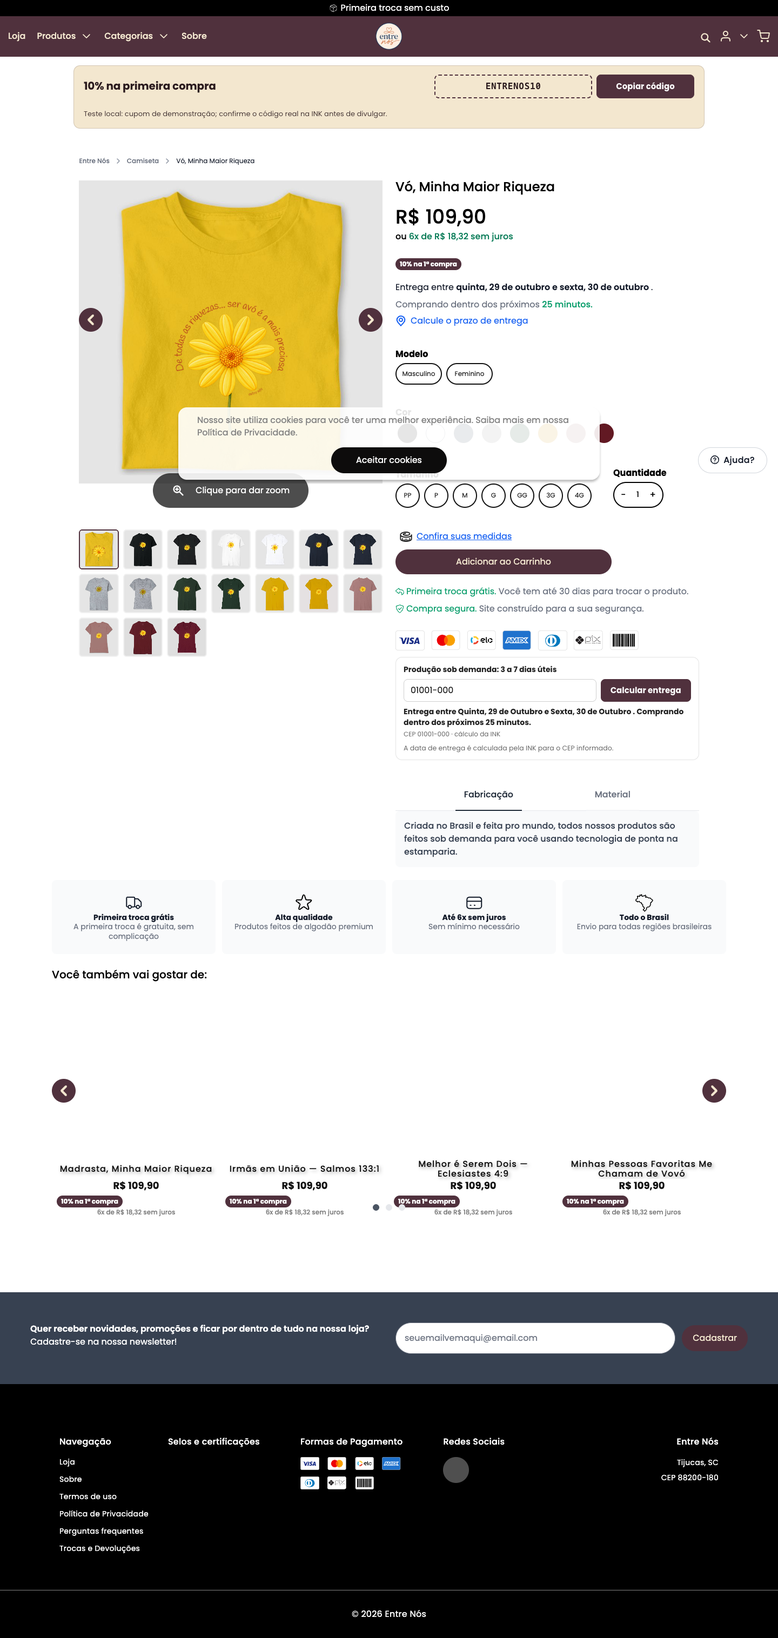
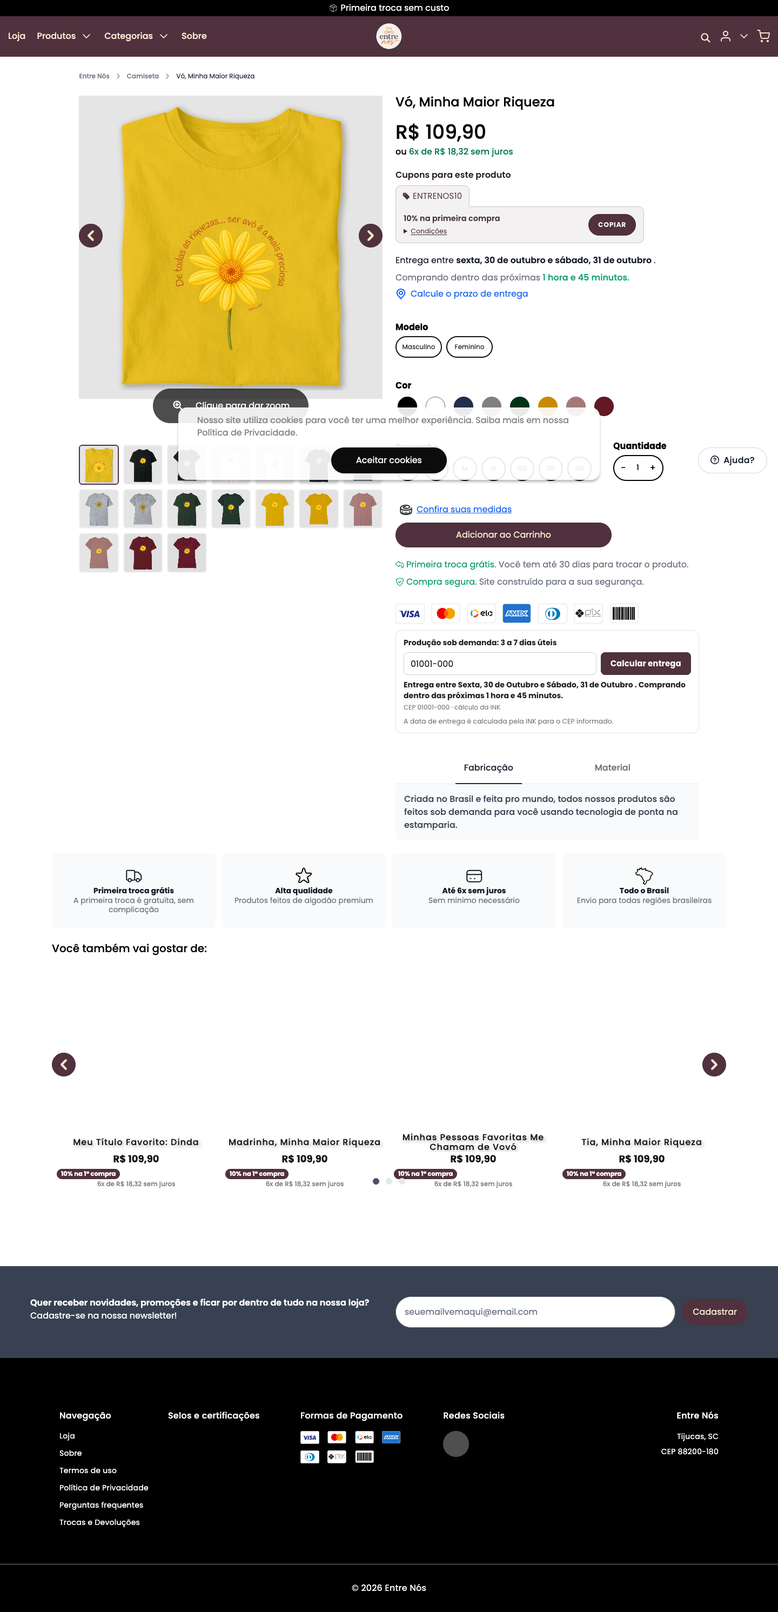
M05: cupons em abas junto ao preço na página do produto
- No produto, quadro compacto logo abaixo do preço com uma aba por
  código (todas as campanhas vigentes), texto da campanha, condições
  recolhidas e "Copiar" → "Copiado"; teclado nas abas; um cupom só vira
  um rótulo com o código. Título configurável. Opção de manter o bloco.
- Cupons da INK entram nas mesmas abas e o quadro nativo sai.
- Selo nos cards quebra a linha em card estreito em vez de cortar.
- Tira docs/.DS_Store do repositório.

diff --git a/src/client/modules/coupons.ts b/src/client/modules/coupons.ts
@@ -84,6 +84,8 @@ const couponsModule: ClientModule = {
       accent: { bg: string; fg: string };
       campaigns: Campaign[];
       inkCoupons?: boolean;
+      productStyle?: string;
+      productTitle?: string;
     };
     const { signal } = ctx;
     const now = Date.now();
@@ -94,8 +96,22 @@ const couponsModule: ClientModule = {
     const render = (live: Campaign[]): (() => void) => {
       const undo = new Undo();
 
+      // Produto: abas compactas junto ao preço (uma por código), no lugar do bloco.
+      let compact = false;
+      if (ctx.page === 'product' && s.productStyle !== 'bloco' && (s.blockPages.includes('product') || s.inkCoupons)) {
+        const spot = belowPrice();
+        if (spot) {
+          const host = productTabs(live, s.productTitle ?? '', ctx, s.accent, timers);
+          undo.insert(host, spot.parent, spot.before);
+          compact = true;
+          // Os cupons da INK já estão nas abas: o quadro nativo sairia repetido.
+          const native = document.querySelector<HTMLElement>('#product_promotions_frame');
+          if (native && live.some((c) => c.fromInk)) undo.hide(native);
+        }
+      }
+
       // Bloco principal
-      if (s.blockPages.includes(ctx.page)) {
+      if (s.blockPages.includes(ctx.page) && !compact) {
         const spot = s.position === 'antes-rodape' ? beforeFooter() : afterHeader();
         if (spot) {
           const { host, root } = shadowHost('coupons', ctx.theme, CSS);
@@ -169,9 +185,16 @@ const couponsModule: ClientModule = {
         };
         if (badge) document.querySelectorAll('.card-thumb .card-thumb__prices-v2').forEach((price) => {
           const b = mk(badge);
+          // Cards estreitos (vitrines no celular): quebra a linha em vez de cortar o texto.
+          b.style.whiteSpace = 'normal';
+          b.style.width = 'auto';
+          b.style.fontSize = '11.5px';
+          b.style.lineHeight = '1.3';
+          b.style.textAlign = 'center';
+          b.style.overflowWrap = 'anywhere';
           undo.insert(b, price.parentNode!, price.nextSibling);
         });
-        if (ctx.page === 'product' && productBadge) {
+        if (ctx.page === 'product' && productBadge && !compact) {
           const spot = belowPrice();
           if (spot) {
             const b = mk(productBadge);
@@ -210,6 +233,147 @@ const couponsModule: ClientModule = {
     };
   },
 };
+
+const TABS_CSS = `
+:host{display:block;margin:14px 0 4px;max-width:460px;container-type:inline-size}
+.ttl{margin:0 0 8px;font-size:16px;font-weight:600;line-height:1.4}
+.tabs{display:flex;gap:6px;margin-bottom:-1px;overflow-x:auto;scrollbar-width:none;position:relative;z-index:1}
+.tabs::-webkit-scrollbar{display:none}
+.tabs[data-more]{-webkit-mask-image:linear-gradient(90deg,#000 calc(100% - 28px),transparent);mask-image:linear-gradient(90deg,#000 calc(100% - 28px),transparent)}
+.tab{flex:1 0 auto;min-width:0;min-height:40px;display:inline-flex;align-items:center;justify-content:center;gap:5px;padding:0 12px;border:1px solid var(--line);border-radius:10px 10px 0 0;background:#fff;color:color-mix(in srgb,var(--ac) 72%,#fff);font:600 13.5px/1 inherit;letter-spacing:.02em;white-space:nowrap;cursor:pointer}
+.tab[aria-selected="true"]{background:var(--tint);border-bottom-color:var(--tint);color:var(--ac);cursor:default}
+.tab:focus-visible{outline:2px solid var(--ac);outline-offset:-3px}
+.tab svg{flex:none;width:14px;height:14px;fill:currentColor}
+span.tab{cursor:default;flex:0 0 auto}
+.panel{display:flex;align-items:center;justify-content:space-between;gap:16px;padding:12px 14px;border:1px solid var(--line);border-radius:0 10px 10px 10px;background:var(--tint)}
+.panel[hidden]{display:none}
+.txt{min-width:0;color:var(--ink)}
+.main{margin:0;font-weight:600;font-size:14.5px;line-height:1.35}
+.sub{margin:2px 0 0;font-size:13.5px;line-height:1.35}
+.meta{margin:4px 0 0;font-size:12.5px;opacity:.8}
+details{margin-top:4px;font-size:12.5px}
+summary{cursor:pointer;text-decoration:underline;text-underline-offset:2px;width:max-content}
+details p{margin:4px 0 0;white-space:pre-line}
+.acts{flex:none;display:flex;flex-direction:column;align-items:stretch;gap:6px}
+.copy{min-height:40px;padding:8px 18px;border:0;border-radius:999px;background:var(--ac);color:var(--on-ac);font-weight:700;font-size:12.5px;letter-spacing:.05em;text-transform:uppercase;cursor:pointer}
+.copy[data-done]{background:color-mix(in srgb,var(--ac) 80%,#000)}
+.use{min-height:32px;padding:4px 8px;border:0;background:transparent;color:var(--ac);font-weight:600;font-size:12.5px;text-decoration:underline;cursor:pointer}
+.status{margin:6px 2px 0;font-size:13px;color:var(--ink)}
+.status:empty{display:none}
+@container (max-width:420px){.tabs{gap:4px}.tab{padding:0 8px;font-size:12.5px;gap:4px}.tab svg{width:12px;height:12px}}
+@container (max-width:380px){.panel{flex-direction:column;align-items:stretch}.acts{flex-direction:row}.copy{flex:1}}
+`;
+const TAG_ICON = '<svg viewBox="0 0 16 16" aria-hidden="true"><path d="M1 2.5A1.5 1.5 0 0 1 2.5 1h4.09a1.5 1.5 0 0 1 1.06.44l7 7a1.5 1.5 0 0 1 0 2.12l-4.09 4.09a1.5 1.5 0 0 1-2.12 0l-7-7A1.5 1.5 0 0 1 1 6.59V2.5Zm3.5 3a1 1 0 1 0 0-2 1 1 0 0 0 0 2Z"/></svg>';
+
+/** Quadro compacto do produto: uma aba por código, texto curto e "Copiar". */
+function productTabs(live: Campaign[], title: string, ctx: ModuleContext, accent: { bg: string; fg: string }, timers: Set<ReturnType<typeof setTimeout>>): HTMLElement {
+  const { signal } = ctx;
+  const { host, root } = shadowHost('coupons', ctx.theme, TABS_CSS, { 'data-pink-coupon-tabs': '' });
+  root.append(h('style', {}, `:host{--ac:${accent.bg};--on-ac:${accent.fg};--tint:color-mix(in srgb,${accent.bg} 7%,#fff);--line:color-mix(in srgb,${accent.bg} 28%,#fff);--ink:color-mix(in srgb,${accent.bg} 70%,#111)}`));
+  const status = h('p', { class: 'status', role: 'status', 'aria-live': 'polite' });
+  const multi = live.length > 1;
+  const icon = () => {
+    const t = document.createElement('template');
+    t.innerHTML = TAG_ICON;
+    return t.content.firstChild!;
+  };
+  const tabs = live.map((c, i) => {
+    const attrs = multi
+      ? { class: 'tab', type: 'button', role: 'tab', id: `pk-ct-${i}`, 'aria-controls': `pk-cp-${i}`, 'aria-selected': i === 0 ? 'true' : 'false', tabindex: i === 0 ? '0' : '-1' }
+      : { class: 'tab', 'aria-selected': 'true' };
+    const el = h(multi ? 'button' : 'span', attrs, icon(), h('span', {}, c.code));
+    return el;
+  });
+  const panels = live.map((c, i) => {
+    const copy = h('button', { class: 'copy', type: 'button', 'aria-label': `Copiar o código ${c.code}` }, 'Copiar');
+    const use = h('button', { class: 'use', type: 'button' }, 'Usar no carrinho');
+    use.hidden = !cartCouponInput();
+    let reset: ReturnType<typeof setTimeout> | undefined;
+    copy.addEventListener('click', async () => {
+      const ok = await copyText(c.code, root);
+      if (signal.aborted) return;
+      clearTimeout(reset);
+      if (ok) {
+        status.textContent = MESSAGES.copied;
+        copy.textContent = 'Copiado';
+        copy.setAttribute('data-done', '');
+        reset = setTimeout(() => {
+          copy.textContent = 'Copiar';
+          copy.removeAttribute('data-done');
+        }, 2500);
+        timers.add(reset);
+      } else {
+        status.textContent = `${MESSAGES.copyFailed} Código: ${c.code}`;
+      }
+    }, { signal });
+    use.addEventListener('click', () => {
+      // Só preenche o campo da INK; quem valida e aplica é a loja.
+      const input = cartCouponInput();
+      if (!input) {
+        status.textContent = MESSAGES.noCartField;
+        return;
+      }
+      [...document.querySelectorAll<HTMLElement>('[id^="shopping-cart-menu"]')].find((b) => b.getClientRects().length)?.click();
+      input.value = c.code;
+      input.dispatchEvent(new Event('input', { bubbles: true }));
+      setTimeout(() => input.focus(), 250);
+      status.textContent = MESSAGES.filled;
+    }, { signal });
+    const meta = [c.firstPurchase ? 'Só na primeira compra' : '', c.endsAt ? `Válido até ${formatWhen(c.endsAt)}` : ''].filter(Boolean).join(' · ');
+    return h(
+      'div',
+      { class: 'panel', ...(multi ? { role: 'tabpanel', id: `pk-cp-${i}`, 'aria-labelledby': `pk-ct-${i}` } : {}), hidden: i === 0 ? undefined : '' },
+      h('div', { class: 'txt' },
+        h('p', { class: 'main' }, c.title),
+        c.description ? h('p', { class: 'sub' }, c.description) : null,
+        meta ? h('p', { class: 'meta' }, meta) : null,
+        c.conditions ? h('details', {}, h('summary', {}, 'Condições'), h('p', {}, c.conditions)) : null,
+      ),
+      h('div', { class: 'acts' }, copy, use),
+    );
+  });
+  if (multi) {
+    const select = (i: number, focus = false) => {
+      tabs.forEach((t, j) => {
+        t.setAttribute('aria-selected', String(i === j));
+        (t as HTMLElement).tabIndex = i === j ? 0 : -1;
+        panels[j]!.hidden = i !== j;
+      });
+      status.textContent = '';
+      if (focus) (tabs[i] as HTMLElement).focus();
+      (tabs[i] as HTMLElement).scrollIntoView?.({ block: 'nearest', inline: 'nearest' });
+    };
+    tabs.forEach((t, i) => {
+      t.addEventListener('click', () => select(i), { signal });
+      t.addEventListener('keydown', (e) => {
+        const k = (e as KeyboardEvent).key;
+        if (k === 'ArrowRight' || k === 'ArrowLeft') {
+          e.preventDefault();
+          select((i + (k === 'ArrowRight' ? 1 : -1) + tabs.length) % tabs.length, true);
+        }
+      }, { signal });
+    });
+  }
+  ctx.cart.onChange(() => {
+    const has = !!cartCouponInput();
+    root.querySelectorAll<HTMLButtonElement>('.use').forEach((b) => (b.hidden = !has));
+  }, signal);
+  // Abas que não cabem: rolagem lateral com esmaecido na borda enquanto houver mais à direita.
+  const strip = h('div', { class: 'tabs', ...(multi ? { role: 'tablist', 'aria-label': 'Cupons' } : {}) }, ...tabs);
+  const more = () => strip.toggleAttribute('data-more', strip.scrollLeft + strip.clientWidth < strip.scrollWidth - 2);
+  strip.addEventListener('scroll', more, { signal, passive: true });
+  window.addEventListener('resize', more, { signal, passive: true });
+  requestAnimationFrame(more);
+  root.append(
+    h('section', { 'aria-label': title || 'Cupons' },
+      title ? h('p', { class: 'ttl' }, title) : null,
+      strip,
+      ...panels,
+      status,
+    ),
+  );
+  return host;
+}
 
 /** Cupons do frame nativo product_promotions. O frame é "lazy" (só carrega ao rolar): lê o endereço dele direto. */
 async function loadInkCoupons(signal: AbortSignal): Promise<Campaign[]> {

diff --git a/test/modules.dom.test.ts b/test/modules.dom.test.ts
@@ -131,10 +131,11 @@ test('M04: WhatsApp com mensagem e link limpo; copiar link', async () => {
 
 // ---------------------------------------------------------------- M05
 
-test('M05: abas de campanhas, selo de 1ª compra perto do preço, copiar ≠ aplicar', async () => {
+test('M05 (produto em "bloco"): abas de campanhas, selo de 1ª compra perto do preço, copiar ≠ aplicar', async () => {
   const cfg = configWith({
     coupons: {
       mode: 'abas',
+      productStyle: 'bloco',
       pages: ['product'],
       campaigns: [coupon({ code: 'PRIMEIRA10', nearPrice: true, badge: '10% na 1ª compra' }), coupon({ title: 'Frete', code: 'FRETE', firstPurchase: false }), coupon({ title: 'Vencido', code: 'VELHO', endsAt: '2099-01-01T00:00:00-03:00', startsAt: '2098-01-01T00:00:00-03:00' })],
     },
@@ -154,6 +155,58 @@ test('M05: abas de campanhas, selo de 1ª compra perto do preço, copiar ≠ apl
   assert.deepEqual(writes, ['PRIMEIRA10']);
   assert.match(root.textContent ?? '', /Código copiado/);
   assert.doesNotMatch(root.textContent ?? '', /aplicad/i);
+});
+
+test('M05: no produto, abas compactas logo abaixo do preço — uma por código, teclado, copiar', async () => {
+  const cfg = configWith({
+    coupons: {
+      mode: 'unico',
+      pages: ['home', 'product'],
+      productTitle: 'Quer cupom? Toma!',
+      campaigns: [
+        coupon({ title: 'Leve 2, ganhe 10%', description: 'Na compra de duas peças', code: 'DOSE10' }),
+        coupon({ title: '10% na primeira compra', code: 'PRIMEIRA10', firstPurchase: true, nearPrice: true, badge: '10% na 1ª compra' }),
+        coupon({ title: 'Futuro', code: 'FUTURO', startsAt: '2098-01-01T00:00:00-03:00', endsAt: '2099-01-01T00:00:00-03:00' }),
+      ],
+    },
+  });
+  const env = setup(PDP, PDP_PATH, cfg);
+  const writes: string[] = [];
+  Object.defineProperty(env.window.navigator, 'clipboard', { configurable: true, value: { writeText: async (t: string) => void writes.push(t) } });
+  env.run();
+  await env.mountedAfter();
+  const host = env.document.querySelector('[data-pink-coupon-tabs]')!;
+  assert.ok(host, 'abas no produto');
+  assert.equal(env.document.querySelectorAll('[data-pink-module="coupons"]:not([data-pink-badge])').length, 1, 'sem o bloco grande no produto');
+  assert.ok(host.closest('form[id^="form-product-"]'), 'dentro da área de compra');
+  assert.ok(host.previousElementSibling?.querySelector('p.text-4xl') || host.previousElementSibling?.matches('p.text-4xl'), 'logo abaixo do preço');
+  assert.equal(env.document.querySelector('form[id^="form-product-"] [data-pink-badge]'), null, 'sem selo repetido no produto: as abas já estão junto ao preço');
+  const root = host.shadowRoot!;
+  assert.match(root.textContent ?? '', /Quer cupom\? Toma!/);
+  const tabs = [...root.querySelectorAll<HTMLElement>('[role="tab"]')];
+  assert.deepEqual(tabs.map((t) => t.textContent), ['DOSE10', 'PRIMEIRA10'], 'uma aba por código vigente, mesmo no modo "único"');
+  const panels = [...root.querySelectorAll<HTMLElement>('[role="tabpanel"]')];
+  assert.deepEqual(panels.map((p) => p.hidden), [false, true]);
+  tabs[0]!.dispatchEvent(new env.window.KeyboardEvent('keydown', { key: 'ArrowRight' }));
+  assert.deepEqual(panels.map((p) => p.hidden), [true, false]);
+  assert.equal(tabs[1]!.getAttribute('aria-selected'), 'true');
+  assert.match(panels[1]!.textContent ?? '', /10% na primeira compra.*Só na primeira compra/);
+  panels[1]!.querySelector<HTMLElement>('.copy')!.click();
+  await env.tick(10);
+  assert.deepEqual(writes, ['PRIMEIRA10']);
+  assert.equal(panels[1]!.querySelector('.copy')!.textContent, 'Copiado');
+  assert.match(root.textContent ?? '', /Código copiado/);
+  assert.doesNotMatch(root.textContent ?? '', /aplicad/i);
+});
+
+test('M05: no produto, um cupom só vira um rótulo com o código (sem abas)', async () => {
+  const env = setup(PDP, PDP_PATH, configWith({ coupons: { pages: ['product'], campaigns: [coupon({ code: 'UNICO10' })] } }));
+  env.run();
+  await env.mountedAfter();
+  const root = env.document.querySelector('[data-pink-coupon-tabs]')!.shadowRoot!;
+  assert.equal(root.querySelectorAll('[role="tab"]').length, 0);
+  assert.equal(root.querySelector('span.tab')!.textContent, 'UNICO10');
+  assert.equal(root.querySelectorAll('.panel').length, 1);
 });
 
 test('M05: "Usar no carrinho" só preenche o campo de cupom da INK, sem enviar', async () => {
@@ -264,7 +317,7 @@ test('M01: sugestões na busca nativa — peças da busca da loja, vazio e erro,
 
 // ---------------------------------------------------------------- M07
 
-test('M05: cupons da INK (frame lazy, ainda não carregado): painel aparece na hora, os da INK chegam depois, sem repetir código; selo da INK só no produto principal', async () => {
+test('M05: cupons da INK (frame lazy, ainda não carregado): painel aparece na hora, os da INK chegam depois nas abas, sem repetir código; quadro nativo some', async () => {
   const cfg = configWith({ coupons: { mode: 'lista', inkCoupons: true, pages: ['product'], campaigns: [coupon({ code: 'LEVEMAISEXEMPLO', title: 'Do painel' })] } });
   const env = setup(PDP, PDP_PATH, cfg);
   // Um card de outro produto na página (vitrine de recomendações).
@@ -284,16 +337,17 @@ test('M05: cupons da INK (frame lazy, ainda não carregado): painel aparece na h
   assert.doesNotMatch(env.shadow('coupons')!.textContent ?? '', /PRIMEIRAEXEMPLO/);
   release();
   await env.tick(150);
-  const text = env.shadow('coupons')!.textContent ?? '';
+  const root = env.shadow('coupons')!;
+  const text = root.textContent ?? '';
   assert.match(text, /Do painel/);
-  assert.equal(text.match(/LEVEMAISEXEMPLO/g)?.length, 1, 'código do painel não se repete');
+  assert.deepEqual([...root.querySelectorAll('[role="tab"]')].map((t) => t.textContent), ['LEVEMAISEXEMPLO', 'PRIMEIRAEXEMPLO'], 'código do painel não se repete');
   assert.match(text, /Primeira compra: R\$10,00 OFF/);
   assert.match(text, /Regras da loja: R\$10,00 OFF; Somente primeira compra\./);
-  const badges = [...env.document.querySelectorAll('[data-pink-badge]')];
-  assert.equal(badges.length, 1, 'selo só no preço do produto principal, não no card de outro produto');
-  assert.equal(badges[0]!.textContent, 'R$10,00 OFF na 1ª compra');
-  assert.equal(badges[0]!.closest('.card-thumb'), null);
-  assert.equal(env.document.querySelectorAll('[data-pink-module="coupons"]:not([data-pink-badge])').length, 1, 'um bloco só');
+  assert.equal(env.document.querySelectorAll('[data-pink-badge]').length, 0, 'nenhum selo: nem no card de outro produto, nem repetido junto às abas');
+  assert.equal(frame.getAttribute('style')?.includes('display: none') || (frame as HTMLElement).style.display === 'none', true, 'quadro nativo da INK escondido (já está nas abas)');
+  assert.equal(env.document.querySelectorAll('[data-pink-module="coupons"]:not([data-pink-badge])').length, 1, 'um quadro só');
+  env.window.PersonalizacoesInk.destroy();
+  assert.notEqual((frame as HTMLElement).style.display, 'none', 'desligar devolve o quadro nativo');
 });
 
 test('M05: só cupons da INK, mas a loja não tem nenhum: nada aparece', async () => {

diff --git a/src/shared/modules/m05-coupons.ts b/src/shared/modules/m05-coupons.ts
@@ -37,10 +37,21 @@ export const coupons: ModuleDef = {
         { key: 'startsAt', type: 'datetime', label: 'Início (opcional)' },
         { key: 'endsAt', type: 'datetime', label: 'Fim (opcional)' },
         { key: 'firstPurchase', type: 'toggle', label: 'Só para a primeira compra' },
-        { key: 'nearPrice', type: 'toggle', label: 'Mostrar selo perto do preço (cards e página do produto)' },
+        { key: 'nearPrice', type: 'toggle', label: 'Mostrar selo perto do preço nos cards de produto' },
         { key: 'badge', type: 'text', label: 'Texto do selo', max: 40, showWhen: { key: 'nearPrice', in: [true] }, required: true },
       ],
     },
+    {
+      key: 'productStyle',
+      type: 'select',
+      label: 'Na página do produto',
+      help: 'Abas: um quadro compacto logo abaixo do preço, uma aba por código, com todas as campanhas vigentes (o selo de 1ª compra já aparece nelas). Bloco: o mesmo das outras páginas, com o selo junto ao preço.',
+      options: [
+        { value: 'junto-preco', label: 'Abas junto ao preço (uma por código)' },
+        { value: 'bloco', label: 'Mesmo bloco das outras páginas' },
+      ],
+    },
+    { key: 'productTitle', type: 'text', label: 'Título das abas no produto', max: 40, showWhen: { key: 'productStyle', in: ['junto-preco'] } },
     {
       key: 'inkCoupons',
       type: 'toggle',
@@ -63,6 +74,8 @@ export const coupons: ModuleDef = {
   defaults: {
     mode: 'unico',
     campaigns: [],
+    productStyle: 'junto-preco',
+    productTitle: 'Cupons para este produto',
     inkCoupons: false,
     position: 'abaixo-cabecalho',
     pages: ['home', 'listing', 'product'],
@@ -104,6 +117,8 @@ export const coupons: ModuleDef = {
       position: s.position,
       blockPages: s.pages,
       inkCoupons: s.inkCoupons === true,
+      productStyle: s.productStyle,
+      productTitle: s.productTitle,
       colors: color(ctx, s.background),
       accent: color(ctx, s.accent),
       campaigns: list(s.campaigns)

diff --git a/README.md b/README.md
@@ -92,7 +92,7 @@ Legenda:
 | M02 Categorias em abas | **A** | Vista: monta na home com 8 produtos reais da coleção, sem erros e sem rolagem lateral. jsdom: troca de aba muda os produtos e o "Ver todos"; atalhos repetidos só somem depois que as abas carregam | Páginas de coleção/listagem da própria loja (cache de 5 min na sessão) |
 | M03 Galeria com miniaturas | **A** | Vista: monta com as miniaturas das fotos reais, sem rolagem lateral no celular. jsdom: uma miniatura por foto navegável, clique aciona só o ponto nativo, variante intacta, acompanha a foto ativa | Carrossel nativo da INK |
 | M04 Compartilhamento | **A** | Vista: monta no produto. jsdom: WhatsApp com mensagem e link canônico limpo, copiar link | Canônico da página |
-| M05 Cupons (único, abas, lista) + selo de 1ª compra | **A** | Vista: bloco na home e selo "10% na 1ª compra" junto ao preço do produto (e2e). "Usar no carrinho" verificado no carrinho real da Vista: preenche o campo de cupom da INK e não envia (a pessoa confirma lá). jsdom: abas, vigência, copiar sem prometer desconto | Campanhas cadastradas no painel (as mesmas da INK). Opcional: **cupons cadastrados na INK** lidos do frame nativo `product_promotions` do produto (código, regras, faixas progressivas; "Somente primeira compra" vira selo "R$10,00 OFF na 1ª compra"), sem repetir códigos do painel. O frame é `lazy` na INK: o módulo lê o endereço dele direto, sem esperar a rolagem; os cupons do painel aparecem antes. O selo de um cupom da INK fica só no preço do produto principal (o cupom vale para aquele produto), nunca nos cards de outros. Essa leitura é **B**: testada na estrutura nativa (fixture reduzida, códigos fictícios), porque a Vista não tem cupons nativos |
+| M05 Cupons (único, abas, lista) + selo de 1ª compra | **A** | Vista: bloco na home; **no produto, abas compactas logo abaixo do preço, uma por código** (título configurável, ex.: "Quer cupom? Toma!"; texto da campanha, condições recolhidas e "Copiar" → "Copiado"; cabem 3 códigos no celular, mais que isso rolam de lado com esmaecido na borda); selo "10% na 1ª compra" nos cards (quebra a linha em card estreito) (e2e). Opção de manter o bloco grande no produto. "Usar no carrinho" verificado no carrinho real da Vista: preenche o campo de cupom da INK e não envia (a pessoa confirma lá). jsdom: abas, vigência, copiar sem prometer desconto | Campanhas cadastradas no painel (as mesmas da INK). Opcional: **cupons cadastrados na INK** lidos do frame nativo `product_promotions` do produto (código, regras, faixas progressivas; "Somente primeira compra" vira selo "R$10,00 OFF na 1ª compra"), sem repetir códigos do painel. O frame é `lazy` na INK: o módulo lê o endereço dele direto, sem esperar a rolagem; os cupons do painel aparecem antes. O selo de um cupom da INK fica só no preço do produto principal (o cupom vale para aquele produto), nunca nos cards de outros. Essa leitura é **B**: testada na estrutura nativa (fixture reduzida, códigos fictícios), porque a Vista não tem cupons nativos |
 | M06 Incentivo no carrinho + confirmação após adicionar | **A** | Vista (proxy com carrinho liberado, item de teste removido no fim): adicionar pela página do produto mostra o incentivo no modal "Produto adicionado" da INK; na gaveta, "Faltam 1 peça…" com 1 item e troca de faixa ao aumentar a quantidade. Marcação real capturada em `test/fixtures/ink/cart-drawer-com-item.html` e `last-added-product.html` (tokens removidos). jsdom: faixas, frete nativo com prioridade, participação por coleção pelo id do produto | Gaveta `turbo-frame#cart` e modal `#last_added_product` da INK. A INK **substitui** o `#last_added_product` a cada adição (o módulo refaz a observação). O item do carrinho não tem link do produto: a participação por coleção usa o id |
 | M07 Avaliações com fotos | **B** | Parser e módulo sobre a marcação real da INK (avaliações da Use Origens, só nos testes). A foto abre o depoimento de origem. Sem nota geral. **Nota mínima** (padrão 4★; avaliação 2★ some da vitrine, aparece com "todas") e "só com texto" nas recentes. Loja sem avaliações não mostra nada | `/reviews` da própria loja. **A Vista ainda não tem avaliações** |
 | M08 Cards de vídeo | **B** | Painel no Chrome: envio de arquivo de vídeo, vínculo no M08, publicação e card novo na loja. Réplica e jsdom: cards no início, vídeos vinculados na página do produto, player sem som automático com a peça (nome e preço da página real) | Biblioteca de vídeos da loja (envio de arquivo ou https; servido com Range) |
@@ -117,7 +117,7 @@ A Vista usa o layout novo da INK; outras lojas usam o clássico. Os módulos for
 
 ## Verificações executadas
 
-- **`npm run check`** (70 testes) cobre:
+- **`npm run check`** (72 testes) cobre:
   - registro e esquema;
   - lojas: isolamento A/B, publicação, liga/desliga só do módulo, restauração, liberação e pausa;
   - acesso por cliente em todas as rotas de loja, CSRF, Host, Origin e convites;
@@ -126,7 +126,7 @@ A Vista usa o layout novo da INK; outras lojas usam o clássico. Os módulos for
   - parsers;
   - assistente;
   - reinício real do processo.
-- **`npm run e2e`** (28 verificações, Chrome):
+- **`npm run e2e`** (29 verificações, Chrome):
   - operador cria a Vista pelo painel e gera o convite;
   - lojista aceita o convite e configura M05, M02, M03 e M12 pelos formulários;
   - a prévia ao vivo esconde o módulo desativado no rascunho;
